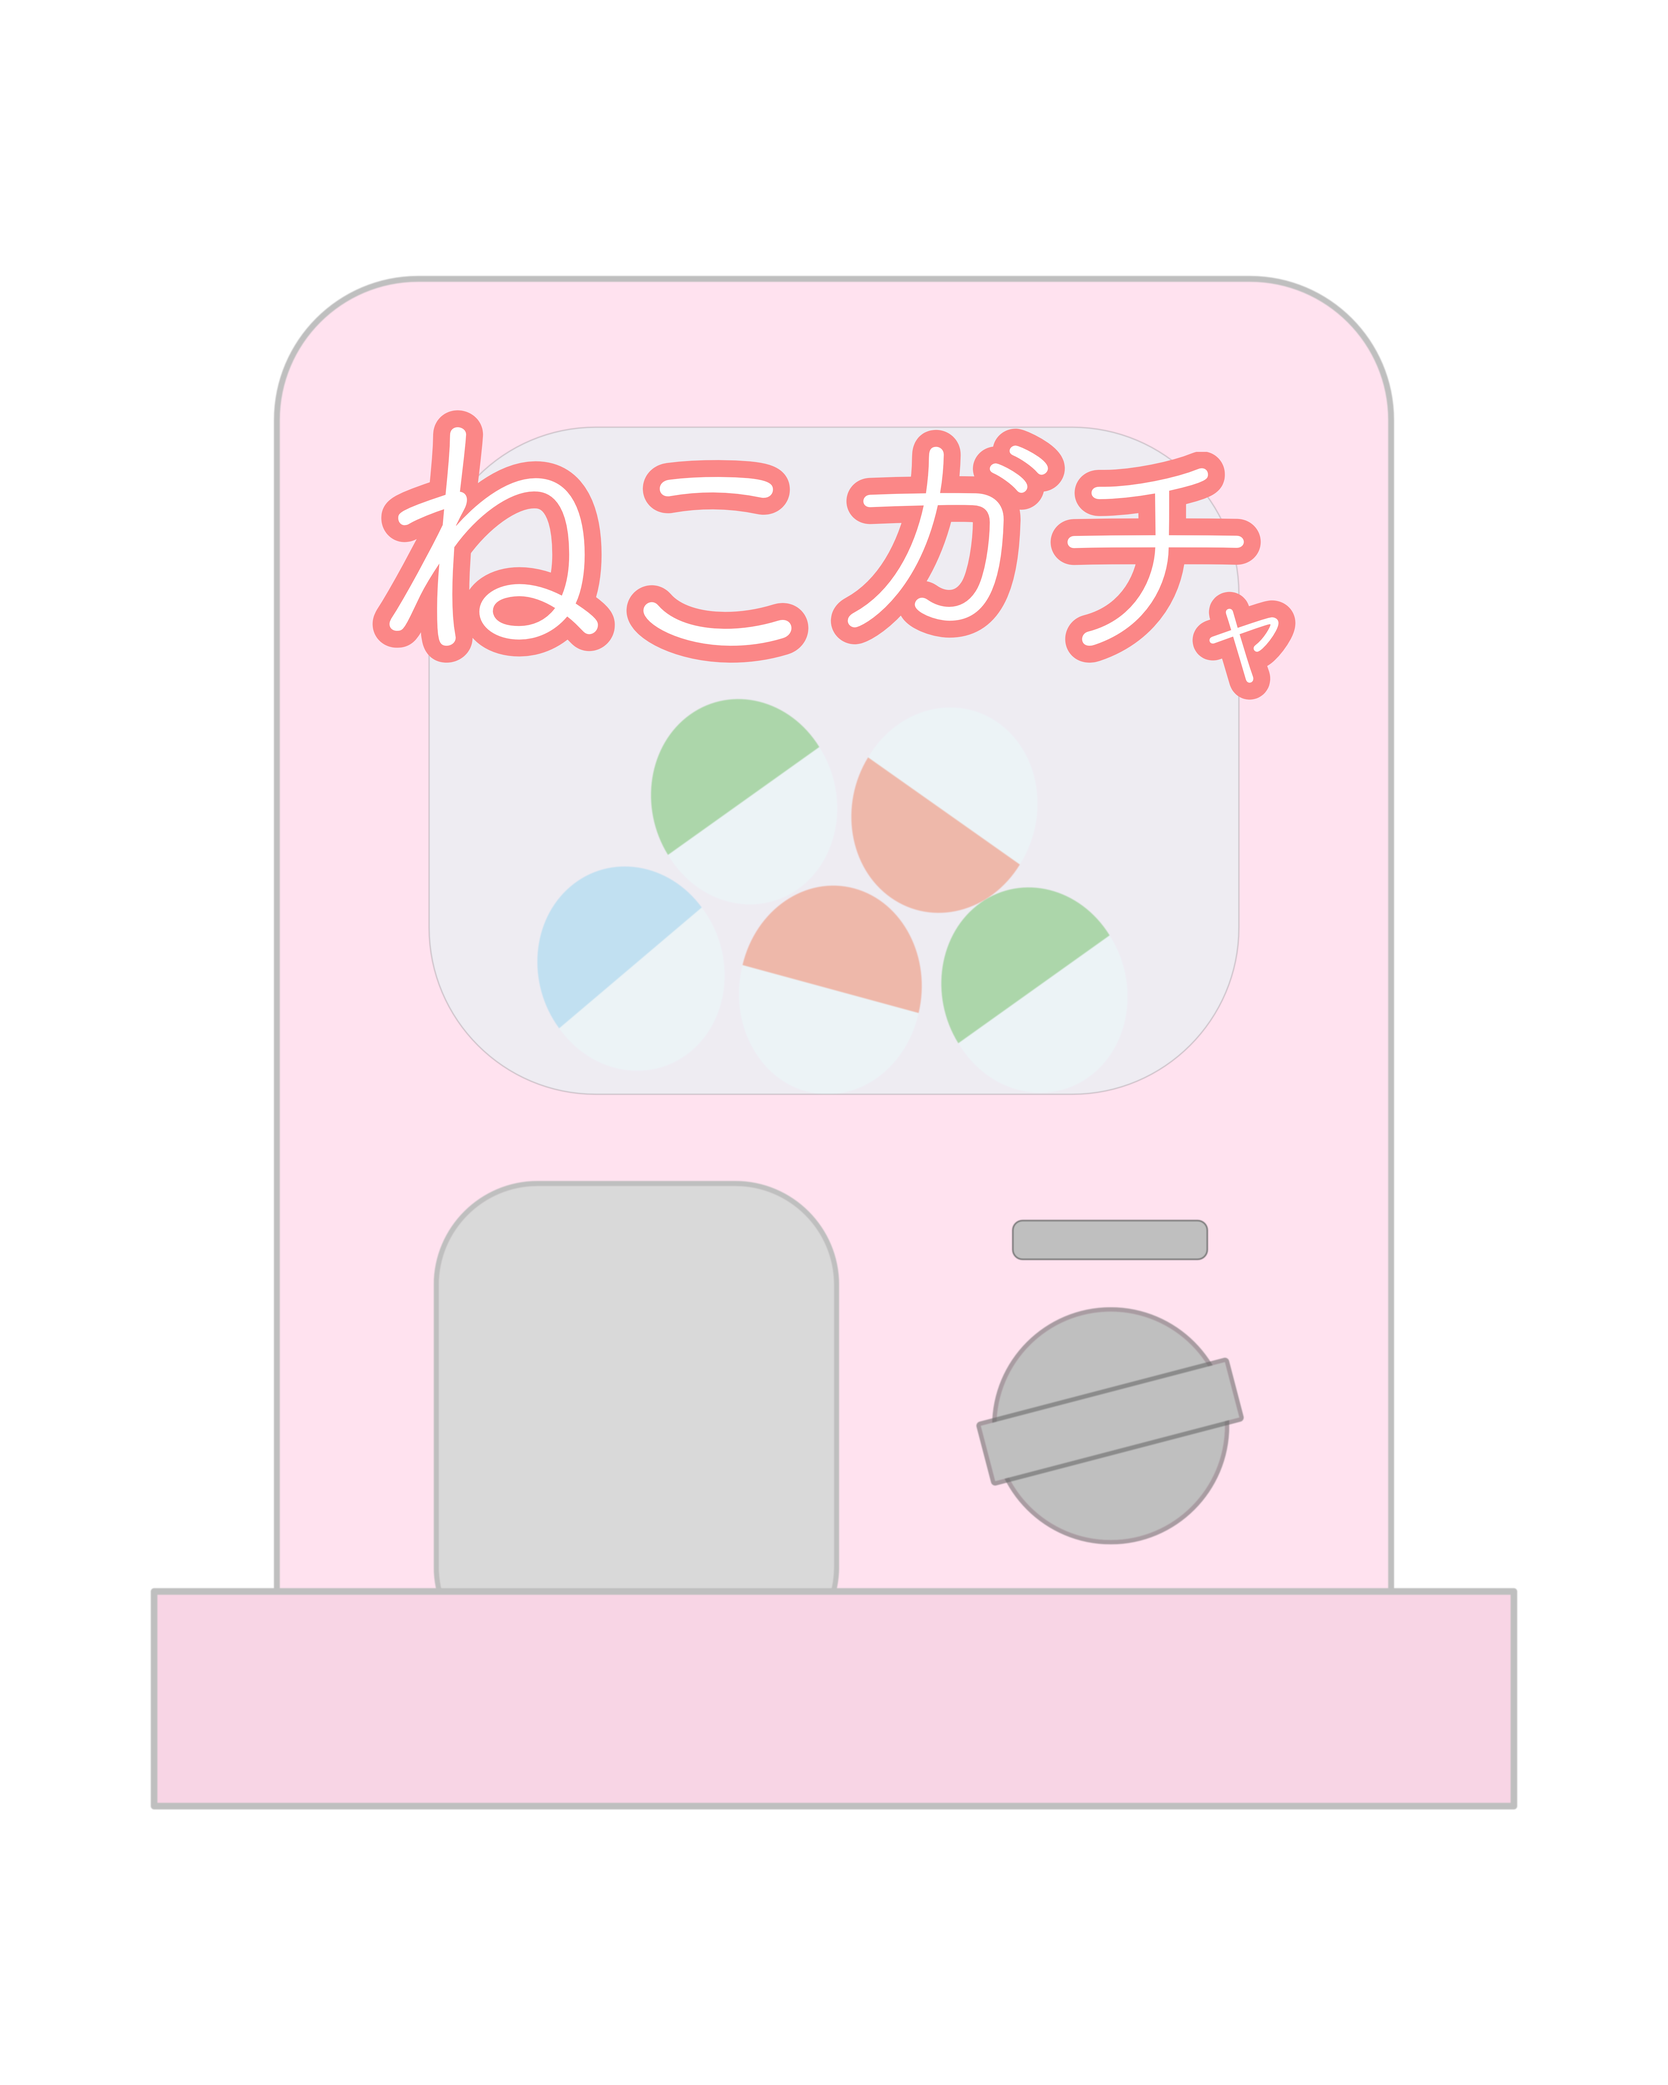
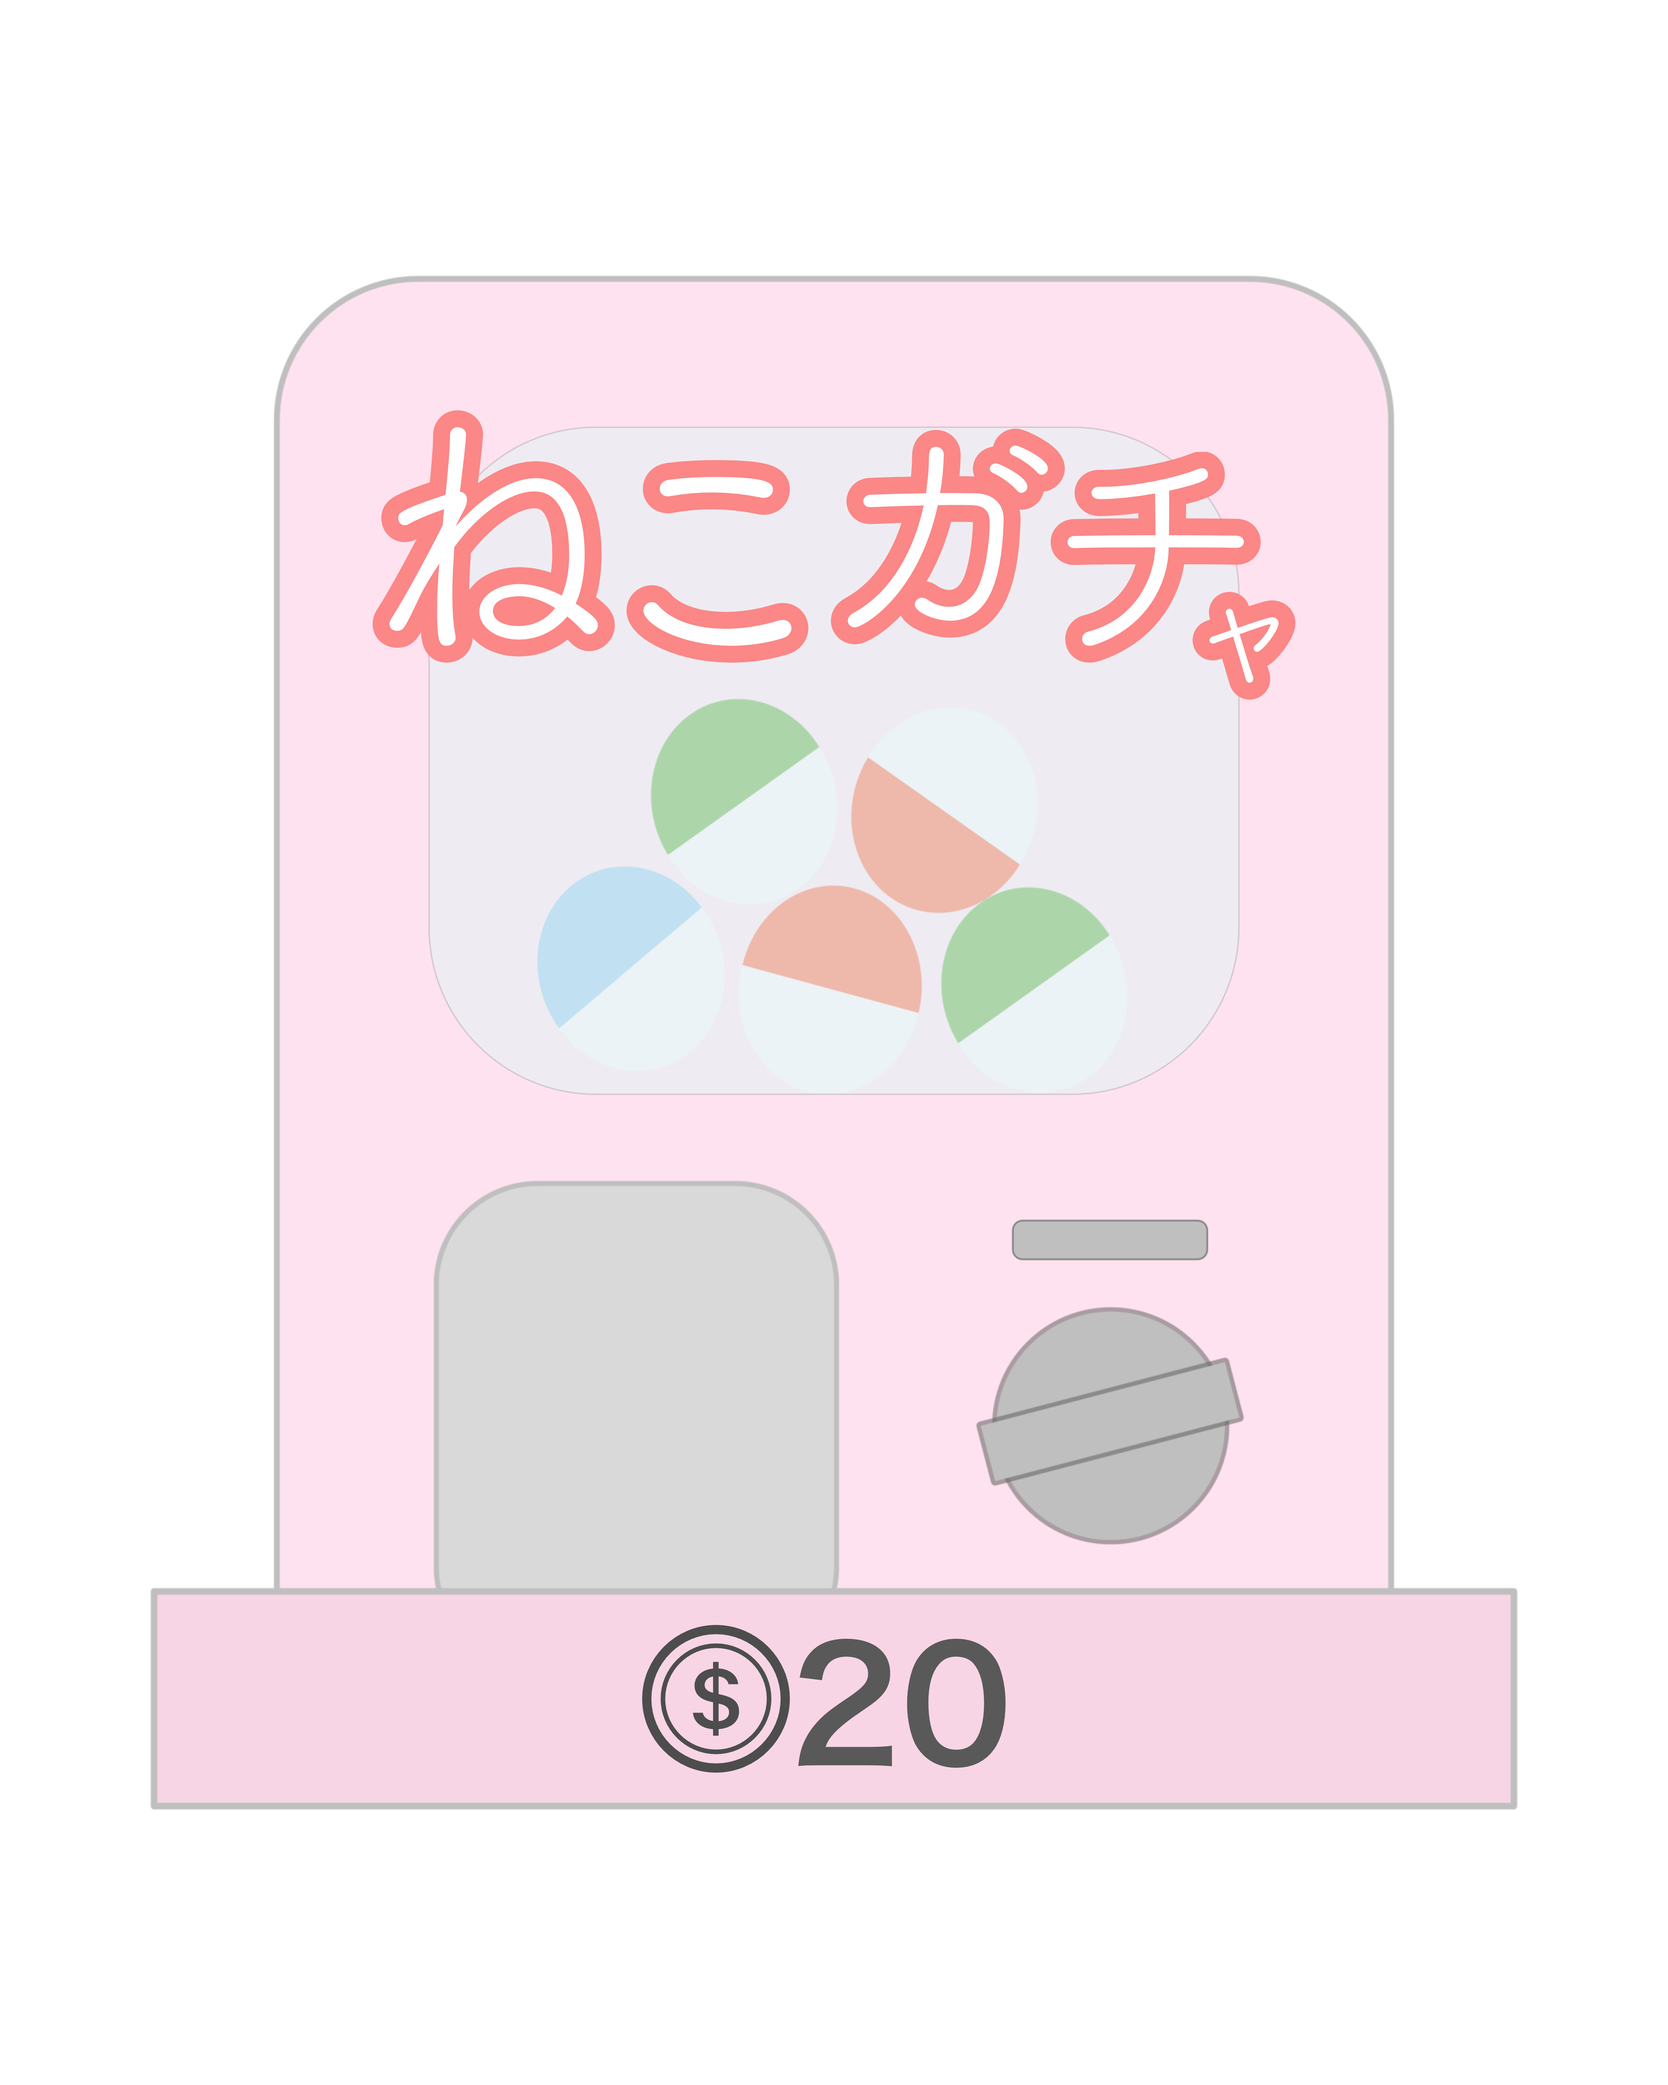
ガチャを実装

Changed region(s): [[0.3733, 0.7789, 0.6222, 0.8723]]

diff --git a/public/gacha.html b/public/gacha.html
@@ -6,45 +6,88 @@
 
   <title>筋肉ねこ</title>
   
-  <link rel="stylesheet" href="https://cdn.jsdelivr.net/npm/bootstrap@5.2.0/dist/css/bootstrap.min.css" rel="stylesheet" integrity="sha384-gH2yIJqKdNHPEq0n4Mqa/HGKIhSkIHeL5AyhkYV8i59U5AR6csBvApHHNl/vI1Bx">
+  <!-- <link rel="stylesheet" href="https://cdn.jsdelivr.net/npm/bootstrap@5.2.0/dist/css/bootstrap.min.css" rel="stylesheet" integrity="sha384-gH2yIJqKdNHPEq0n4Mqa/HGKIhSkIHeL5AyhkYV8i59U5AR6csBvApHHNl/vI1Bx"> -->
 
-  <!-- Bootstrap の css をインポートする。参考 -->
- <link href="https://cdn.jsdelivr.net/npm/bootstrap@5.0.2/dist/css/bootstrap.min.css" rel="stylesheet" integrity="sha384-EVSTQN3/azprG1Anm3QDgpJLIm9Nao0Yz1ztcQTwFspd3yD65VohhpuuCOmLASjC" crossorigin="anonymous">
- <script src="https://cdn.jsdelivr.net/npm/bootstrap@5.0.2/dist/js/bootstrap.bundle.min.js" integrity="sha384-MrcW6ZMFYlzcLA8Nl+NtUVF0sA7MsXsP1UyJoMp4YLEuNSfAP+JcXn/tWtIaxVXM" crossorigin="anonymous"></script>
- <!-- <link rel="stylesheet" href="../boostrap/css/bootstrap.min.css">
- <link rel ="stylesheet" href="../boostrap/css/bootstrap.min.css"> -->
- <!-- <script src ="../boostrap/js/bootstrap.bundle.min.js"></script>
- <script src = "../boostrap/js/bootstrap.bundle.js"></script> -->
- 
+<!-- Bootstrapインポートする。参考 -->
+<script src="https://code.jquery.com/jquery-3.3.1.slim.min.js"></script>
+<script src="https://cdnjs.cloudflare.com/ajax/libs/popper.js/1.14.7/umd/popper.min.js"></script>
+<script src="https://cdn.jsdelivr.net/npm/bootstrap@4.6.2/dist/js/bootstrap.min.js" integrity="sha384-+sLIOodYLS7CIrQpBjl+C7nPvqq+FbNUBDunl/OZv93DB7Ln/533i8e/mZXLi/P+" crossorigin="anonymous"></script>
+<script src="https://cdn.jsdelivr.net/npm/bootstrap@5.0.2/dist/js/bootstrap.bundle.min.js" integrity="sha384-MrcW6ZMFYlzcLA8Nl+NtUVF0sA7MsXsP1UyJoMp4YLEuNSfAP+JcXn/tWtIaxVXM" crossorigin="anonymous"></script>
+
+<!-- <link href="https://cdn.jsdelivr.net/npm/bootstrap@5.0.2/dist/css/bootstrap.min.css" rel="stylesheet" integrity="sha384-EVSTQN3/azprG1Anm3QDgpJLIm9Nao0Yz1ztcQTwFspd3yD65VohhpuuCOmLASjC" crossorigin="anonymous"> -->
+
+<!--jsファイルインポート-->
  <script defer src="src/basic.js"></script>
- <link rel="stylesheet" type="text/css" href="src/styles2.css">
 
+ <!-- CSSファイルインポート-->
+ <link rel="stylesheet" type="text/css" href="bootstrap/css/bootstrap.min.css">
+ <link rel="stylesheet" type="text/css" href="src/styles2.css">
+ <link rel="stylesheet" href="https://cdn.jsdelivr.net/npm/bootstrap-icons@1.8.0/font/bootstrap-icons.css">
+
+ <!--firebaseインポート-->
+ <script src="/__/firebase/7.16.0/firebase-app.js"></script>
+ <script src="/__/firebase/7.16.0/firebase-auth.js"></script>
+ <script src="/__/firebase/7.16.0/firebase-firestore.js"></script>
+ <script src="/__/firebase/init.js"></script>
+ <script src="https://cdn.firebase.com/libs/firebaseui/3.5.2/firebaseui.js"></script>
+  <link href="https://cdn.firebase.com/libs/firebaseui/3.5.2/firebaseui.css" rel="stylesheet" type="text/css">
 </head>
 
 <body class="text-center text-bg-dark d-flex h-100">
-    <div class="d-flex w-100 mx-auto flex-column ">
-      <header class="mb-auto px-3 pt-3">
-        <div>
-          <!-- <h3 class="mb-0 float-md-start">カバー</h3> -->
-            <img src = "src/猫.png" height = "50mm" class = "float-md-start">
-            <div class = "px-5">
-          <nav class="nav nav-masthead justify-content-center float-md-end">
-            <a class="nav-link fw-bold py-1 px-0 active" aria-current="page" href="./index.html">ホーム</a>
-            <a class="nav-link fw-bold py-1 px-0" href="#">特徴</a>
-            <a class="nav-link fw-bold py-1 px-0" href="#">要望</a>
-          </nav>
-        </div>
-        </div>
-      </header>
+  <div class="d-flex w-100 mx-auto flex-column ">
+    <header class="mb-auto px-3 pt-3">
+      <div>
+        <!-- <h3 class="mb-0 float-md-start">カバー</h3> -->
+          <a href="index.html">
+            <img src = "src/猫.png" height="50mm" class = "float-md-start">
+          </a>
+          <div class = "px-5">
+        <nav class="nav nav-masthead justify-content-center float-md-end">
+          <a class="nav-link fw-bold py-1 px-0" href="./login.html">ホーム</a>
+          <a class="nav-link fw-bold py-1 px-0" href="training.html">トレーニング</a>
+          <a class="nav-link fw-bold py-1 px-0" href="neko.html">ねこを見る</a>
+          <a class="nav-link fw-bold py-1 px-0 active" aria-current="page" href="gacha.html">ガチャ</a>
+          <a class="text-white fw-bold py-1 px-0 dropdown"> 
+            <button id="btnOpenMenu" class="btn dropdown-toggle text-white" data-toggle="dropdown" aria-haspopup="true" aria-expanded="false">
+              <!-- ユーザー名表示 -->
+              <i class="bi bi-person-fill"  id="userName"></i></a>
+            </button>
+            <div class="dropdown-menu" aria-labelledby="btnOpenMenu">
+              <div class ="dropdown-item">
+                <!-- 保有コイン表示 -->
+                <i class="bi bi-coin fw-bold" id="coin"></i></a>
+              </div>
+              <a class="btn dropdown-item" role="button" href="login.html">サインアウト</a>
+            </div>
+          </a>
+        </nav>
+      </div>
+      </div>
+    </header>
 
     <main class="px-3">
-      <!-- <h3 class= "mb-3">ねこガチャ</h3> -->
       <div class ="gacha">
         <img src="src/猫ガチャ_2_2.png"> 
-        <div id="gachaImg">
-          <button onClick="gacha()" class="btn btn-secondary fw-bold border-black ">ガチャをひく</button>
+          <button onClick="gacha()" class="btn btn-secondary fw-bold border-black" data-toggle="modal" data-target="#gachaModal">ガチャをひく</button>
+      </div>
+
+      <!-- Modal -->
+      <div class="modal fade" id="gachaModal" tabindex="-1" aria-labelledby="gachaModalLabel" aria-hidden="true">
+        <div class="modal-dialog">
+          <div class="modal-content">
+            <div class="modal-header">
+              <h5 class="modal-title text-center" id="gachaModalLabel"><div id = "catName"></div></h5>
+              <a href="gacha.html" type="button" class="btn-close" data-bs-dismiss="modal" aria-label="Close"></a>
+            </div>
+            <div class="modal-body">
+              <div id = "fileName"></div>
+            </div>
+          <div class="modal-footer">
+            <button onclick="window.location.reload();" type="button" class="btn btn-secondary" data-dismiss="modal">Close</button>
+          </div>
         </div>
-      </div>   
+      </div>
+    </div>
     </main>
 
     <footer class="mt-auto text-white-50">

diff --git a/public/src/basic.js b/public/src/basic.js
@@ -66,6 +66,60 @@
 
 } */
 
+
+function gacha(){
+  //乱数を発生させる
+  var max =19;
+  var min =0 ;
+  var rand=  Math.floor(Math.random() * (max - min + 1)) + min;
+  console.log("乱数"+rand);
+
+  //データベースに猫追加
+  firebase.auth().onAuthStateChanged(async(user) => {
+    if (user) {
+        //獲得ねこデータを取得
+        const userRef = await firebase.firestore().collection('users').doc(user.uid);
+        const userDocument = await userRef.get()
+        
+        var userCat = userDocument.get('cat');
+        var userMoney = userDocument.get('money');
+
+        //20コイン以上ならガチャ実行
+        if(userMoney >= 20){
+           //獲得ねことお金更新
+           userCat[rand] = true;
+           console.log(userCat);
+
+           await userRef.update({
+             cat : userCat,  
+             money : userMoney - 20,   
+             updatedAt: firebase.firestore.FieldValue.serverTimestamp(),    
+            });
+            
+            const catRef = await firebase.firestore().collection('cats').doc(String(rand));
+            const catDoc = await catRef.get();
+            
+            var catName = catDoc.get('cat_type');
+            console.log(catName);
+            
+            var fileName = catDoc.get('file_name');
+            console.log(fileName);
+
+             //猫データ取得
+             document.getElementById('catName').innerHTML = catName + "獲得！！";
+             document.getElementById('fileName').innerHTML = "<img src = 'src/nekos/"+ fileName+"'>";
+          }
+
+        else{
+          // document.getElementBtId('catName').innerHTML = 20 - userMoney +"コインが足りません。";
+          document.getElementById('fileName').innerHTML = 20 - userMoney + "コイン足りません。　";
+        }
+        document.getElementById('coin').innerHTML = userMoney;
+    } 
+});
+}
+
+
 //YouTubeに飛ばす
 function viewItem(){
   const item = document.getElementById("item1").value;
@@ -73,7 +127,6 @@ function viewItem(){
   const url = "https://www.youtube.com/results?search_query="+item+"+"+time+"分";
   window.open(url);
   // console.log(url); 
-  
 }
 
 //トレーニングを記録する
@@ -91,8 +144,7 @@ function record(){
 
   firebase.auth().onAuthStateChanged(async(user) => {
       if (user) {
-          //console.log('ログインしています');
-          //console.log(item);
+        //trainingsのデータベースを取得
           var userDoc = await firebase.firestore().collection('trainings').doc();
           //if (!userDoc.exists) {
               // Firestore にドキュメントが作られていなければ作る
@@ -120,34 +172,9 @@ function record(){
           })
       } 
   });
-  
-  // const user = firebase.auth().currentUser;
-  // console.log(user);
-  // //if (user) {
-  //   var userDoc = await firebase.firestore().collection('users').doc(user.uid).collection("training").get();
-  //       await userDoc.ref.set({
-  //        item: item,
-  //        time: time,
-  //      });
-  //} 
- 
   document.getElementById("recordtr").insertAdjacentHTML("afterbegin", item + "を" + time + "分");
   document.getElementById("recordMoney").insertAdjacentHTML("afterbegin",recMoney);
 }
-
-// function getUserInfo(){
-//   // console.log("function getUser");
-//   firebase.auth().onAuthStateChanged(async(user) =>{
-//     const userRef = await firebase.firestore().collection('users').doc(user.uid);
-//     const userDocument = await userRef.get()
-//     var userMoney = userDocument.get('money');
-//     var userName = userDocument.get('display_name');
-
-//     console.log([userName,userMoney]);
-//   //  return [userName,userMoney];
-//   })
-// }
-
 
 function getUserInfo(){
   firebase.auth().onAuthStateChanged(async(user) => {
@@ -158,21 +185,9 @@ function getUserInfo(){
       
       document.getElementById('coin').innerHTML = userMoney+"コイン"
       console.log([userName,userMoney]);
-
-  
-      // const signOutMessage = `
-      // <p>${user.email}(${user.displayName})でログインしました!<\/p>
-      // <a href="./select.html" class="btn btn-secondary fw-bold border-black bg-white w-25 h-50">進む</a>
-      // <br>
-      // <button type="submit" class="btn btn-secondary fw-bold border-black bg-white w-25 h-50" onClick="signOut()">サインアウト<\/button>
-      // `;
-      // document.getElementById('auth').innerHTML =  signOutMessage;
-      // console.log('ログインしています');
-  
-  } 
-  });
-
-}
+    }
+  })
+};
 
 firebase.auth().onAuthStateChanged(async(user) => {
   if (user) {
@@ -183,7 +198,7 @@ firebase.auth().onAuthStateChanged(async(user) => {
     document.getElementById('userName').innerHTML =userName;
     document.getElementById('coin').innerHTML = userMoney;
   }
-})
+});
 
 //ログイン機能についての関数
 
@@ -220,11 +235,11 @@ if (user) {
     if (!userDoc.exists) {
        // Firestore にユーザー用のドキュメントが作られていなければ作る
         await userDoc.ref.set({
-         cat : [],
          money : 0,
          screen_name: user.uid,
          display_name: user.displayName,
          created_at: firebase.firestore.FieldValue.serverTimestamp(),
+         cat : new Array(20).fill(false),
        });
      }
 
@@ -255,10 +270,3 @@ firebase
 });
 }
 
-function gacha(){
-  var max =;
-  var min = ;
-  var rand=  Math.floor(Math.random() * (max - min)) + min;
-
-
-}

diff --git a/public/training.html b/public/training.html
@@ -68,10 +68,10 @@
             </a>
             <div class = "px-5">
           <nav class="nav nav-masthead justify-content-center float-md-end">
-            <a class="nav-link fw-bold py-1 px-0 active" aria-current="page" href="./login.html">ホーム</a>
-            <!-- <a class="nav-link fw-bold py-1 px-0" href="training.html">トレーニング</a> -->
+            <a class="nav-link fw-bold py-1 px-0" href="./login.html">ホーム</a>
+            <a class="nav-link fw-bold py-1 px-0 active" aria-current="page"href="training.html">トレーニング</a>
             <a class="nav-link fw-bold py-1 px-0" href="neko.html">ねこを見る</a>
-            <a class="nav-link fw-bold py-1 px-0" href="calendar.html">きろく</a>
+            <a class="nav-link fw-bold py-1 px-0" href="gacha.html">ガチャ</a>
             <a class="text-white fw-bold py-1 px-0 dropdown"> 
               <button id="btnOpenMenu" class="btn dropdown-toggle text-white" data-toggle="dropdown" aria-haspopup="true" aria-expanded="false">
                 <!-- ユーザー名表示 -->

diff --git a/public/src/styles2.css b/public/src/styles2.css
@@ -70,7 +70,7 @@ h3{
   background: rgba(252,171,171,0.5);
   position:absolute;
   width:30%;
-  height:15%;
+  height:10%;
   top:55%;
   left:50%;
   -ms-transform: translate(-50%,-50%);
